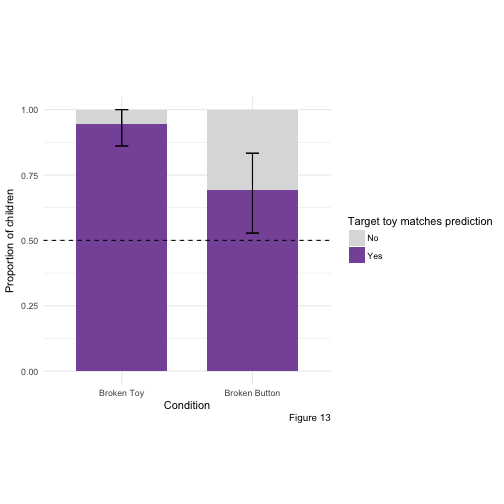
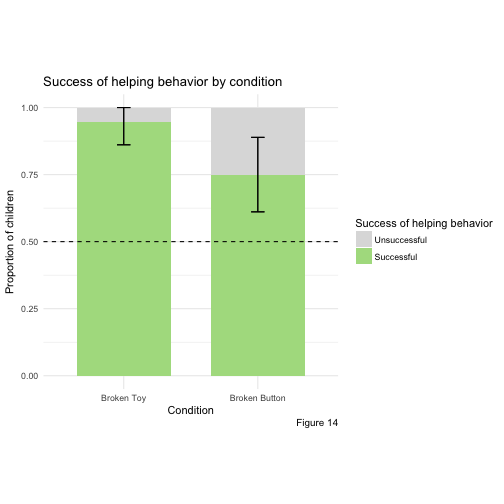
knit---update md

diff --git a/thesis.md b/thesis.md
@@ -56,13 +56,15 @@ We also looked at the consequence of children’s first helping responses. We co
 
 # Results
 
+
+
 Children in both conditions saw the same set of toys and watched the confederate perform the same action (pressing an obvious button on the top of a toy, which subsequently did not play music). All children could then either approach the toy the confederate had just pressed or a toy on the tray. The conditions differed only in the likely source of the confederate's failure to play music. We manipulated the likely source of her failure by varying whether the button pressed by the confederate was the type of button that worked on a majority of the toys (i.e., a yellow button; Broken Toy condition) or the type of button that was always inert (i.e., a red button; Broken Button condition).  
 
 We predicted responses to vary across conditions depending on the source of the confederate’s failure. In the Broken Toy condition, the confederate presses a yellow button. From this action alone, you can infer that she has the inert toy, since yellow buttons produce music on all toys except one. The source of her failure is therefore the toy itself. Her action (pressing a yellow button) would have produced music if she had chosen another toy. The child can thus only help the confederate achieve her goal of playing music by targeting a new toy from the tray.
 
 In the Broken Button condition, however, it is only possible to infer that the confederate is taking the wrong action on a toy (i.e., pressing a red button instead of a yellow one). Each toy has an inert red button, so the confederate's action provides no information about which type of toy (functional or inert) she has chosen. Therefore, in this condition, children could help the confederate by approaching her toy, as toy may have a functional yellow button on the bottom. We thus predicted that more children would approach the “toys on the tray” in the Broken Toy condition than in the Broken Button condition. As predicted, children were significantly more likely to direct their help toward a toy on the tray in the Broken Toy condition than in the Broken Button condition (73% vs. 27%; two-tailed Fisher’s Exact Test, p = 0.002).
 
-![plot of chunk unnamed-chunk-4](figure/unnamed-chunk-4-1.png)
+![plot of chunk unnamed-chunk-2](figure/unnamed-chunk-2-1.png)
 
 We then looked at children’s responses within each condition. In the Broken Toy condition, children could not help fulfill the confederate's goal of producing music by acting on the confederate's toy. We thus predicted that children in this condition would preferentially direct their help toward a toy on the tray. As predicted, children were more likely to approach the “toys on the tray” than the “confederate’s toy” (19/26; two-tailed binomial test, p = 0.029).
 
@@ -71,7 +73,7 @@ In the Broken Button condition, however, it is not clear which toy the confedera
 As a secondary measure, we looked at the success of children's helping responses. We considered response successful if the child acted in way that could fulfill the confederate's goal of playing music. In the Broken Toy condition, a behavior could be successful only if it involved approaching the "toys on the tray." In the Broken Button condition, successful behaviors involved revealing a yellow button on any of the toys. It is plausible that helping successfully is more difficult in the Broken Button condition, as it involves revealing a non-obvious button. However, children can be helpful at either toy in the Broken Button condition and there are therefore more ways to offer successful help. All children in the Broken Button condition included in this analysis helped successfully (25/25). One child in the Broken Button condition was dropped from this analysis because the camera angle prevented visual access to the content of her helping behavior. Children in the Broken Button condition were more likely to help successfully than children in the Broken Button condition (73% in Broken Toy vs. 100% in Broken Button; two-tailed Fisher’s Exact Test, p = 0.01). Children tended to help successfully overall; within each condition, children were more likely to help successfully than unsuccessfully (Broken Toy: 19/26, two-tailed binomial test, p = 0.0289593; Broken Button: 25/25, two-tailed binomial test, p = 6 &times; 10<sup>-8</sup>). 
 
 
-![plot of chunk unnamed-chunk-5](figure/unnamed-chunk-5-1.png)
+![plot of chunk unnamed-chunk-3](figure/unnamed-chunk-3-1.png)
 
 
 
@@ -100,7 +102,7 @@ are therefore not identical in this condition.
 
 If children are responding effectively to the likely source of the confederate's failure, we should expect children in the Broken Button condition to be more likely to flip the toys over than children in the Broken Toy condition, as the toys in the Broken Toy condition are already oriented such that the functional buttons are on top. We found that were significantly more likely to target a non-obvious button in the Broken Button condition than in the Broken Toy condition (96% vs. 12%; two-tailed Fisher’s Exact Test, p < 0.001). Furthermore, children in the Broken Button condition were significantly more likely to target a non-obvious button than an obvious button (25/26, two-tailed binomial test, p < 0.001), while children in the Broken Toy condition were significantly more likely to target an obvious button than a non-obvious one (3/26, two-tailed binomial test, p < 0.001). 
 
-![plot of chunk unnamed-chunk-9](figure/unnamed-chunk-9-1.png)
+![plot of chunk unnamed-chunk-7](figure/unnamed-chunk-7-1.png)
 
 
 ### Discussion
@@ -188,7 +190,7 @@ Children in each condition saw identical-looking toys and watched the confederat
 
 We  predicted responses to vary across conditions depending on the source of the confederate's failure. In the Broken Toy condition, it is only possible to effectively help the confederate play music by targeting the other toy. In the Broken Button condition, however, the toys are identical. Each toy has one functional button and one inert button. Once the confederate presses the top button on her toy, you can infer that the bottom button will be functional. It is therefore possible to help her by targeting her own toy (the "confederate's toy"). However, the "other toy" also has a functional button. Targeting this toy can then also address the confederate's goal of playing music. Because children in this condition could help the confederate by targeting at either toy, but children in the Broken Toy condition could help only by targeting the other toy, we predicted that children would be more likely to target the "other toy" in the Broken Toy condition than in the Broken Button condition. As predicted, children were significantly more likely to direct their help toward the "other toy" in the Broken Toy condition than in the Broken Button condition (84% % vs. 41%; two-tailed Fisher’s Exact Test, p = 6 &times; 10<sup>-4</sup>). This replicates the finding from Experiment 1, and suggests that the red and yellow visual markers from Experiment 1 are not necessarily in order to observe responses that vary depending on the source of failure. 
 
-![plot of chunk unnamed-chunk-14](figure/unnamed-chunk-14-1.png)
+![plot of chunk unnamed-chunk-12](figure/unnamed-chunk-12-1.png)
 
 ```
 ## # A tibble: 1 x 6
@@ -205,7 +207,7 @@ We did not have a directed prediction for the Broken Button condition because, a
 
 Again, as a secondary measure, we looked at the success of children's helping behaviors. Successful behaviors again included only those that aided the confederate in her goal of playing music. In the Broken Toy condition, children could successfully help only if they targeted the other toy. In the Broken Button condition, children could successfully help if they targeted the bottom button on either toy. We found no difference in the success of helping behavior across the two conditions (84% in Broken Toy vs. 72 in Broken Button; two-tailed Fisher’s Exact Test, p = 0.365). We then collapsed across conditions and found that children were more likely to successfully help than to unsuccessfully help (50/64; two-tailed binomial test, p < 0.001). Thus, not only were children varying their responses based on the source of the confederate's failure, they targeted their responses in a way that could help fulfill her goal of playing music. 
 
-![plot of chunk unnamed-chunk-16](figure/unnamed-chunk-16-1.png)
+![plot of chunk unnamed-chunk-14](figure/unnamed-chunk-14-1.png)
 
 As another secondary analysis, we investigated how often children in each condition exhibited the "correct" response. In the Broken Toy condition, "correct" responses are those that target the other toy. In the Broken Button condition, "correct" responses are those that target the confederate's toy. We found no significant difference across conditions (84% in Broken Toy vs. 59% in Broken Button; two-tailed Fisher’s Exact Test, p = 0.05). We then collapsed across conditions to test if children were more likely to respond "correctly" or "incorrectly" versus the alternative. Children were more likely to respond "correctly" than "incorrectly" (46/64; two-tailed binomial test, p < 0.001)
 
@@ -214,36 +216,42 @@ As another secondary analysis, we investigated how often children in each condit
 
 Finally, as an exploratory measure, we again looked at how often children targeted a non-obvious, bottom button. Children in the Broken Button condition were significantly more likely to target a bottom button than in the Broken Toy coniditon (72% vs. 3%; two-tailed Fisher's exact test, p < 0.001), indicating that children were using prior knowledge about the toys' functionality when responding to the confederate. Children were also more likely to target a non-obvious bottom button than an obvious top button in the Broken Button condition (23/32; two-tailed binomial test, p = 0.02) and children in the Broken Toy condition were more likely to target an obvious button than a non-obvious button (1/32; two-tailed binomial test, p < 0.001). 
 
-![plot of chunk unnamed-chunk-18](figure/unnamed-chunk-18-1.png)
-
+![plot of chunk unnamed-chunk-16](figure/unnamed-chunk-16-1.png)
 
 # Discussion
 
-## [transition to modified experiment--put somewhere]
-It is not clear exactly what the confederate's goal are from her actions. Again, the confederate chooses a toy and expresses that she is interested in playing music. She then asks the child to show her. She may have a "specific" goal of playing music with her chosen toy, or a "general" goal of playing music with either toy. If she holds the specific goal, you can help her by showing her how to produce music on her chosen toy. However, since the toys are identical, you can also demonstrate to her how to operate her own toy on the "other toy." If she has the "general" goal of playing music regardless of toy, then showing her on either toy helps her achieve her goal. 
+In this experiment, 2- and 3-year-old children were again able to infer the likely cause of another's failure and offer appropriate help. We replicated our main finding from Experiment 1---children's responses varied with the likely cause of the confederate's failure.
 
-Children show no preference for either toy in the Broken Button condition, in contrast to Experiment 1, in which children in the Broken Button condition preferentially targeted the confederate's toy. There are several reasons why targeting the confederate's toy seems more appropriate in this condition. First, children have more information about the confederate's toy. The confederate presses a button on the top of the toy and it does nothing. If children remember how the toys work, they can infer that the bottom button on the confederate's toy must therefore be the functional button. They have no such information about other toy. In this experiment, the functional and non-functional sides are not marked and it is therefore not clear which button will produce music on the other toy. Therefore, if children want to maximize the chance of producing music, it makes sense to target the bottom button on the confederate's toy. Second, the confederate chooses one toy over another, both verbally by remarking, "Hmm, I think I'll play with this one," and by phyiscally kneeling down behind her chosen toy and pressing a button on that toy only. It seems reasonable to conclude that these actions indicate that she has a preference for one toy over another. However, children do not preferentially target the confederate's toy. Here are several possible explanations for this behavior.
+However, children showed no preference for either toy in the Broken Button condition, in contrast to Experiment 1, in which they showed a preference for the confederate's toy. There are several reasons why we might expect children to target the confederate's toy in this condition. First, children have more information about the confederate's toy and should choose the confederate's toy if they wish to maximize the probability of producing music on a single button push. Children witnessed the confederate press a button on the top of her toy and the toy fail to activate. If a child remembered how the toys worked, she could then infer that the bottom button on the confederate's toy must be the functional button. They have no such information about other toy. In this experiment, the functional and non-functional sides are not marked and it is therefore not clear which button will produce music on the other toy. Therefore, if children want to maximize the chance of producing music, it makes sense to target the bottom button on the confederate's toy. Second, the confederate chooses one toy over another, by both verbally by remarking, "Hmm, I think I'll play with this one," and by kneeling down behind her chosen toy and pressing a button on that toy only. It therefore is reasonable to conclude that these actions indicate that she has a preference for one toy over another. 
 
-
-
-
-1. Children are forgetting which toy the confederate acted upon and therefore do not have a preference for either toy since they are visually identical. This could explain the difference in behavior between children in Experiment 1 and this experiment because in Experiment 1 the other toys are on a tray and therefore visually marked. However, this is unlikely for several reasons. First, if children are forgetting which toy the confederate acted upon after she moves to the center of both toys and asks her question, children should also show no preference for either toy in the Broken Button condition, as the toys in that condition are also visually identical. [have possible counterargument to this -- think about later] Second, there are 25 children who offer help while the confederate is still kneeling at her toy, before she moves back to the center and asks for help. These children also do not show a preference for either toy--12 target the confederate's toy and 13 target the other toy. 
-
-2. Children have an aversion to the confederate's toy since they just saw the confederate act upon that toy and fail. However, if children are aversed to operating a toy upon which someone else just failed, we should see that aversion in the Broken Button condition in Experiment 1 as well. 
+Here, we discuss several possible explanations of why children in the Broken Button condition demonstrated no preference for either toy.
 
 
 
-3. Children do not think the confederate's gaol is to play music with her chosen toy. Instead, they think her goal is just to play music. We will call this the *general goal*, in contrast to the *specific goal* of playing music with a particular toy. Although the confederate does verbally indicate a choice and operate a single toy, she then moves so that she is back between the two toys before saying, "I really want to play music. Can you show me?" She also gestures with both arms towards both toys while doing so. Therefore, while the confederate is explicitly asking for music and stating her goal, she demonstrates an indifference towards either toy. Children may interpret these actions as overriding her earlier demonstrated preference for one toy over another and therefore attribute the general goal to the confederate. If the confederate has no toy preference, it is helpful to target either toy. this does not address, however, the fact that children have more information about the confederate's toy than the other toy. Even if children attribute the general goal to the confederate, it is still a better bet to flip over the confederate's toy (100% chance of music) than it is to try either button on the other toy (each has a 50% chance of music). It is possible that children are not taking this into consideration, or that they assume the toys are oriented identically (i.e., the top button on the other toy is also the inert button). It is unlikely that children think the toys are oriented identically, however. First, they have no reason to assume they are oriented identically--they are oriented differently during the training phase and neither the confederate or experimenter indicates that they are oriented in any particular way during the helping phase. Furthermore, if children assume the toys are oriented identically, children who target the other toy in this condition should preferentially target the bottom button, as the do the children who target the confederate's toy. However, of the 13 in the Broken Button condition who target the other toy, 5 target the bottom button and 8 target the top button. This is contrast to the 18 out of 19 who target the bottom button on the confederate's toy.
 
-4. Children do attribute the specific goal to the confederate (i.e., they think she wants to play music with her chosen toy). However, because the toys are identical, they believe that demonstrating on either toy can help fulfull the confederate's goal. Under this theory, if a child targets the other toy, s/he thinks that the confederate wants to play music with her chosen toy, but believe they can show her the correct way to do so on the other toy, since the toys are visually and functionally identical. However, it then seems reasonable to expect that children who target the other toy will preferentially target the bottom button, as it is not informative to the confederate for the child to push the top button on the other toy if her goal is to play music on her own toy. The confederate  does not appear to know that the bottom button exists, or that her own toy has a functional button. '
+1. Children forgot which toy the confederate acted upon and therefore did not have a preference for either visually and functionally identical toy. This could explain the different in behavior between children in the Broken Button condition in Experiment 1 and children in the Broken Button condition in this experiment, as children could remember which toy was the confederate's by looking at which toy was not on the tray. However, this explanation is unlikely for several reasons. First, if children forgot which toy the confederate acted upon (after she moves to the center of both toys and asks her question), they should have also shown no preference for either toy in the Broken Toy condition. [possible counterargument---the training is actually different. In the Broken Button training, children learn about 2 functionally identical toys. they have no real reason to distinguish between the toy, or assume that they will need to keep track of what happens to one or anohter. However, in the Broken Toy condition, the toys are not functionally identical. they do different things, and so you might want to keep track of which one is the working one. --- this could also tie into a discussion of experiment 3 results] Second, there are 25 children who offer help while the confederate is still kneeling at her toy, before she moves back to the center and asks for help. These children also do not show a preference for either toy--12 target the confederate's toy and 13 target the other toy. 
 
-It is possible that a combination of these explanations are occurring--i.e., some children are attributing the general goal to the confederate, some are attributing the specific goal, some forget which toy she acted upon, some are aversed to acting on the confederate's toy. It is also possible that multiple of these are in effect in one child. For example, a child could attribute the specific goal to the confederate and also have an aversion to the confederate's toy. 
+2. Children attributed the specific goal to the confederate, or thought it more reasonable to target her own toy, but had an aversion to the confederate's toy that counteracted this inclination. For example, they might be wary to approach a toy that an adult just failed to activate. However, if children in this experiment were aversed to operating a toy upon which an adult just failed, we should see that aversion in the Broken Button condition in Experiment 1 as well. 
 
-It is not possible to determine whether children are attributing the specific or general goal to the confederate in this experiment. 
 
+
+3. Children did not think that the confederate's goal as to play music with her chosen toy (the *specific* goal). Instead, they believed that her goal was just to play music, regardless of toy (the *general* goal). The confederate's only verbal statement of her goal comes when she says, "I really want music!" and when she prompts the child to "show her", she gestures towards both toys. Therefore, during the period in which the confederate explicitly states her goal and prompts the child, she does not express a preference for either toy. She expressed her preference earlier, when she tried the toy, but perhaps children see her subsequent behavior as overriding this preference and thus think that she holds the general goal. 
+
+If the confederate has no toy preference, it is helpful to target either toy. This does not address, however, the fact that children have more information about the confederate's toy than the other toy. Even if children attribute the general goal to the confederate, targeting the bottom button on the confederate's toy has a 100% chance of music, whereas either button on the other toy has only a 50% chance of music. It is possible that children are not taking this into consideration, or that they assume the toys are oriented identically (i.e., the top button on the other toy is also the inert button). It is unlikely that children think the toys are oriented identically, however. First, they have no reason to assume this, as the the toys are oriented differently during the training phase and neither the confederate nor experimenter indicates that they are oriented in any particular way during the helping phase. Furthermore, if children assume the toys are oriented identically, children who target the other toy in this condition should preferentially target the bottom button, as do the children who target the confederate's toy. However, of the 13 in the Broken Button condition who target the other toy, 5 target the bottom button and 8 target the top button. This is contrast to the 18 out of 19 who target the bottom button on the confederate's toy.
+
+[is it likely that they are not taking the probabilities into account?]
+
+4. Children do attribute the specific goal to the confederate (i.e., they think she wants to play music with her chosen toy). However, because the toys are identical, they believe that demonstrating on either toy can help fulfull the confederate's goal. Under this theory, if a child targets the other toy, s/he thinks that the confederate wants to play music with her chosen toy, but believe they can show her the correct way to do so on the other toy, since the toys are visually and functionally identical. However, it then seems reasonable to expect that children who target the other toy will preferentially target the bottom button, as it is not informative to the confederate for the child to push the top button on the other toy if her goal is to play music on her own toy. The confederate  does not appear to know that the bottom button exists, or that her own toy has a functional button. As explained earlier, however, this is not the case. 
+
+It is possible that a combination of these explanations are occurring---i.e., some children are attributing the general goal to the confederate, some are attributing the specific goal, some forget which toy she acted upon, some are aversed to acting on the confederate's toy. It is also possible that multiple of these are in effect in one child. For example, a child could attribute the specific goal to the confederate and also have an aversion to the confederate's toy. 
+
+Thus, it is unclear what children thought of confederate's goal in this experiment, and subsequently why children in the Broken Button condition demonstrated no preference for either toy. In a third experiment, we made it clearer that the confederate's goal wasto play with her chosen toy, as well as eliminated the possibility of demonstrating how to operate one toy by acting on another. 
+
+maybe insert something about how in the broken toy condition children override the confederate's preference and cite that paternalism article.
 
 # Experiment 3
-In this experiment, we changed the structure of one toy in each pair to make the toys visually and functionally distinct. We believed this made it more likely that the confederate is expressing a preference for one toy over another when she makes her choice. It also eliminates the possibility of demonstrating how to operate the confederate's toy by acting on the other toy in the Broken Button condition. 
+
+In the third experiment, we changed the structure of one toy in each pair to make the toys visually and functionally distinct. This eliminated the possibility of demonstrating how to operate the confederate's toy by acting on the other toy. Additionally, when the confederate makes a choice between the two toys, it is now likelier that she is indicating her preference for one toy type over another, and thus likelier that she holds the specific goal.
 
 ## Methods
 
@@ -290,7 +298,7 @@ To verify that children did not express a bias for a particular toy type, side, 
 |confederateSophie   |   -16.34| 4650.16|        0.00|    1.00|
 
 
-![plot of chunk unnamed-chunk-23](figure/unnamed-chunk-23-1.png)
+![plot of chunk unnamed-chunk-21](figure/unnamed-chunk-21-1.png)
 
 Again, we predicted that responses would vary across conditions depending on the source of the confederate's failure, and that children in the Broken Toy condition would be more likely to target the "other toy" than children in the Broken Button condition. As predicted, children were significantly more likely to direct their help toward the "other toy" in the Broken Toy condition than in the Broken Button condition (94% vs. 31%; two-tailed Fisher’s Exact Test, p < 0.001). This replicates the findings in Experiment 1 and 2.
 
@@ -304,23 +312,26 @@ As a secondary analysis, we investigated whether the proportion of children who 
 
 Since we found a signficant difference across conditions, we then looked at children's tendencies to behave as predicted within each condition. These analyses are identical to the analyses run to test our predictions about response within each condition. Thus, both children in the Broken Toy condition and Broken Button condition were significantly more likely to behave as predicted than not.
 
-![plot of chunk unnamed-chunk-25](figure/unnamed-chunk-25-1.png)
+![plot of chunk unnamed-chunk-23](figure/unnamed-chunk-23-1.png)
 
 
 
 As another secondary analysis, we again looked at the proportion of children who were helped successfully. Children could successfully help in the Broken Toy condition if they targeted the other toy. Children could successfully help in the Broken Button condition if they targeted the non-obvious (i.e., either the bottom or side) button of either the confederate's toy or the other toy. We found that children in the Broken Toy condition were significantly more likely to help successfully than children in the Broken Button condition (94% vs. 31%; two-tailed Fisher’s Exact Test, p = 0.046). Children in the Broken Toy condition were significantly more likely to help successfully than to help unsuccessfully (34/36; two-tailed binomial test, p < 0.001). Children in the Broken Button condition were also significantly more likely to help successfully than to unsuccessfully (27/36; two-tailed binomial test, p = 0.004). 
 
-![plot of chunk unnamed-chunk-27](figure/unnamed-chunk-27-1.png)
+![plot of chunk unnamed-chunk-25](figure/unnamed-chunk-25-1.png)
 
 
 
 Finally, as an exploratory analysis, we looked at the tendency of children to target the non-obvious button on a toy. In this experiment, a non-obvious button could be a bottom or side button. Children were significantly more likely to target a non-obvious button in the Broken Button condition than in the Broken Toy condition (69% % vs. 69%; two-tailed Fisher’s Exact Test, p < 0.001). Furthermore, children in the Broken Button condition were significantly more likely to target a non-obvious button than an obvious button (25/36; two-tailed binomial test, p = 0.029). Children in the Broken Toy condition were significantly more likely to target an obvious button than a non-obvious button (2/36; two-tailed binomial test, p < 0.001). 
 
-![plot of chunk unnamed-chunk-29](figure/unnamed-chunk-29-1.png)
+![plot of chunk unnamed-chunk-27](figure/unnamed-chunk-27-1.png)
 
 
-![plot of chunk unnamed-chunk-30](figure/unnamed-chunk-30-1.png)
+![plot of chunk unnamed-chunk-28](figure/unnamed-chunk-28-1.png)
 
+# Discussion
+
+The results from this experiment again replicate our main finding from Experiment 1 that children's responses to the confederate's request vary depending on the likely source of her failure. 
 
 # COMMENTS TO SELF
 ## ARE CHILDREN REALLY HELPING?
